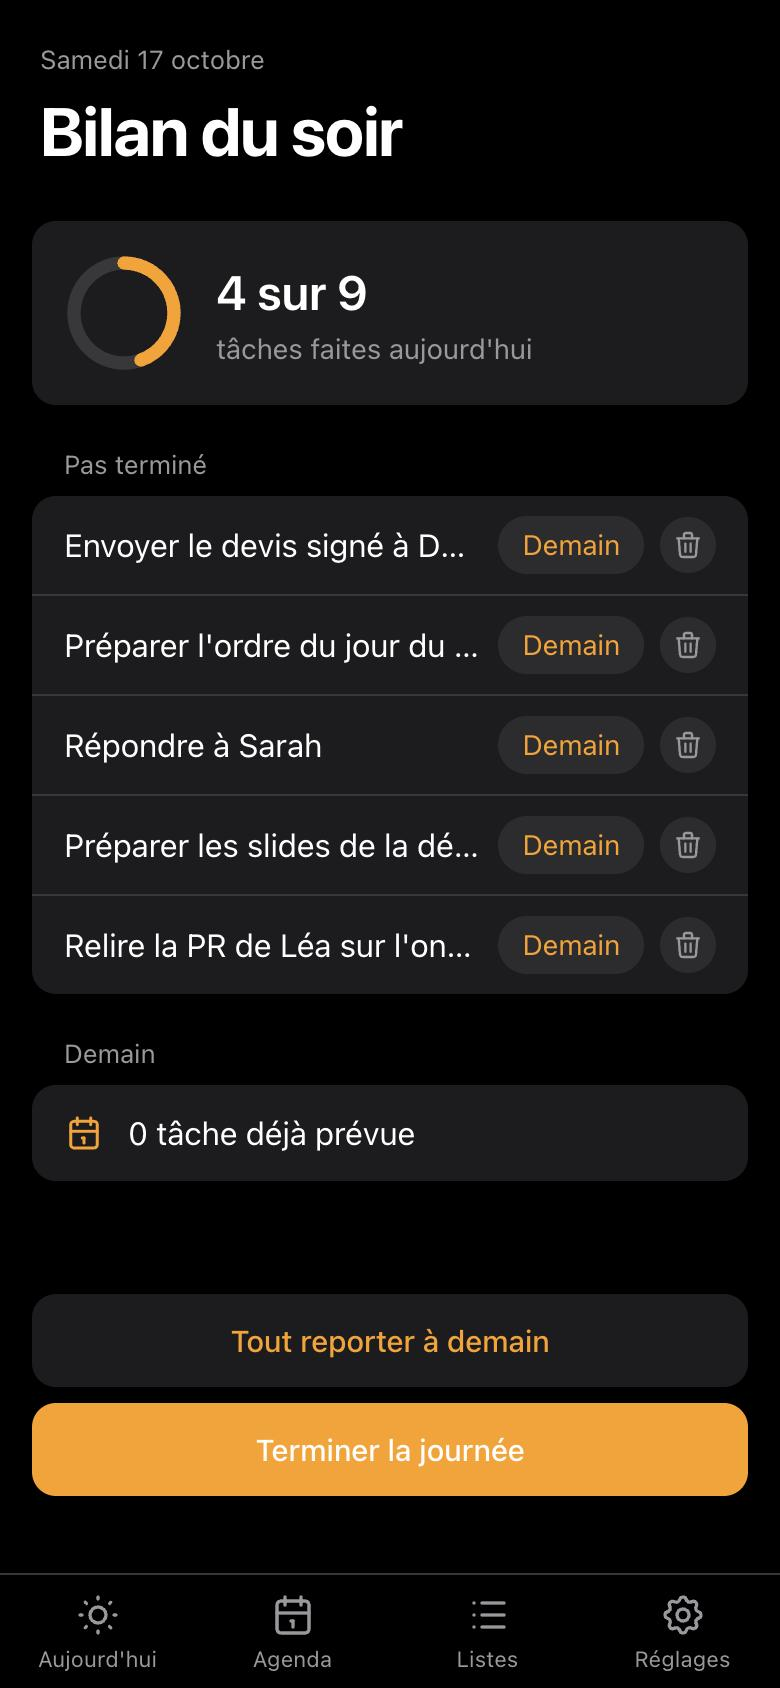
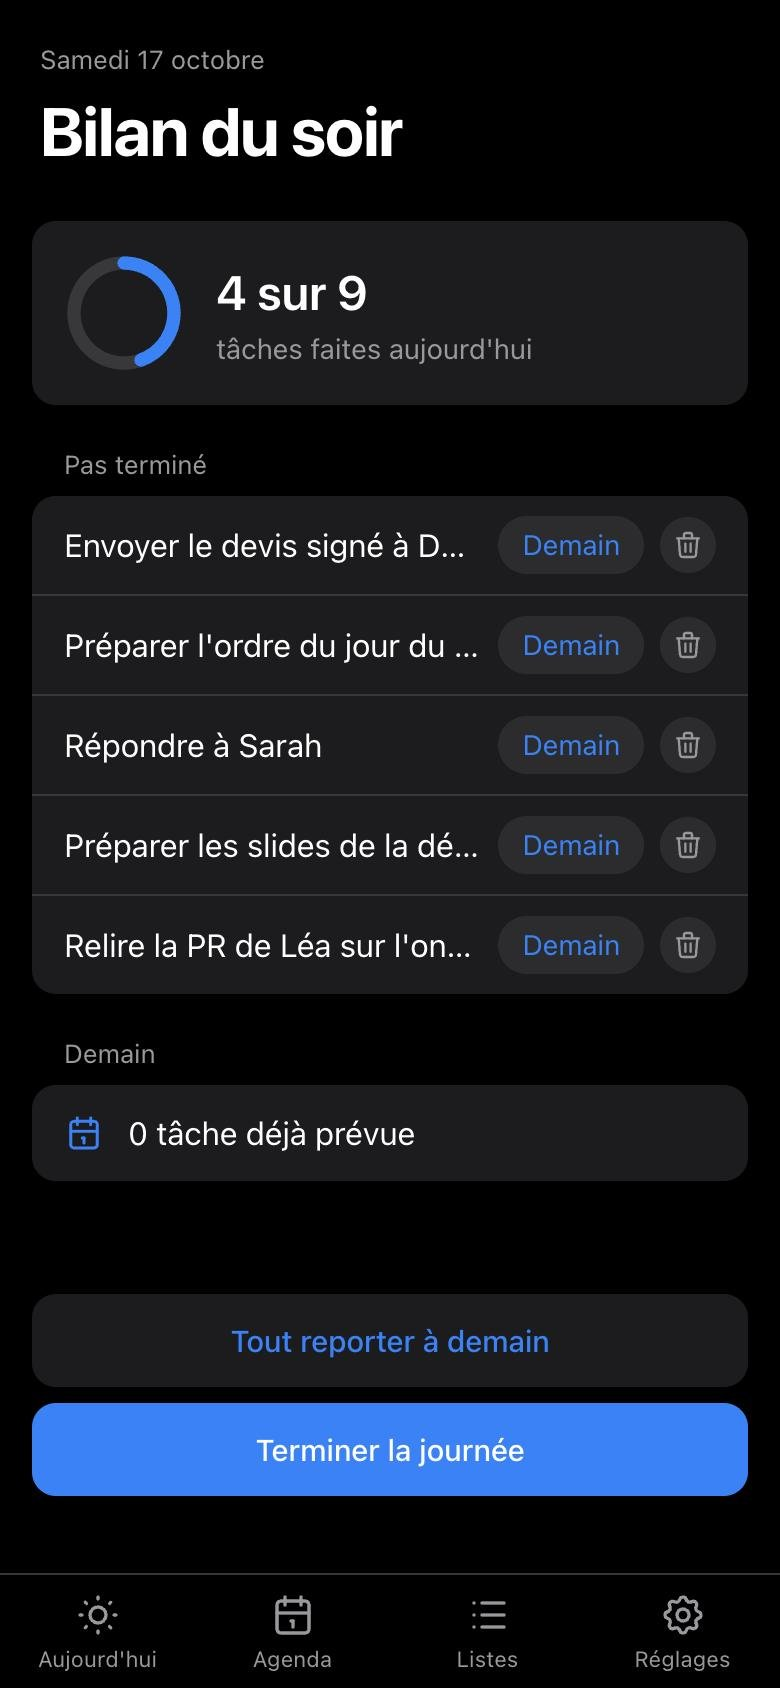
🎨 feat(landing): the app's colors, from the page to the screenshots (#42)
The landing page and README were orange; the app people install is iOS
blue on iOS grays. Visitors were sold a different-looking app.

- site/styles.css: the app's tokens (#f2f2f7 / white / black text in
  light, black / #1c1c1e / white in dark), system blue for accents and
  glows, #0071e3 for filled buttons (white labels at 4.7:1).
- New screenshots with the default blue accent, same demo content and
  framing as before (today, agenda, review, stats, rhythm, color step).
- README banners rebuilt with a blue glow; version badge in blue.
- theme-color metas follow the new backgrounds.
- D-013 records the decision.

diff --git a/site/styles.css b/site/styles.css
@@ -1,21 +1,23 @@
 /*
  * Taskly landing page. Plain CSS, no build step.
  * Shapes: interactive elements are pills, surfaces use --radius (24px).
- * One accent (the brand orange), light and dark from prefers-color-scheme.
+ * The app's own colors: iOS grays, and its default accent, system blue.
+ * Filled buttons use a deeper blue (#0071e3) so white labels stay above 4.5:1.
+ * Light and dark from prefers-color-scheme, like the app on "Auto".
  */
 
 :root {
-  --bg: #f5f3ed;
-  --surface: #fffdf8;
-  --surface-2: #ebe8e0;
-  --line: rgb(23 23 23 / 0.09);
-  --text: #171717;
-  --muted: #5e5c57;
-  --accent: #f5a623;
-  --accent-text: #8f5400;
-  --on-accent: #171717;
-  --glow: rgb(245 166 35 / 0.22);
-  --shadow: 0 24px 60px rgb(60 44 10 / 0.12);
+  --bg: #f2f2f7;
+  --surface: #ffffff;
+  --surface-2: #e5e5ea;
+  --line: rgb(60 60 67 / 0.12);
+  --text: #000000;
+  --muted: #6e6e73;
+  --accent: #0071e3;
+  --accent-text: #0066cc;
+  --on-accent: #ffffff;
+  --glow: rgb(0 122 255 / 0.2);
+  --shadow: 0 24px 60px rgb(0 30 80 / 0.12);
   --radius: 24px;
   --wrap: 1160px;
   --gutter: clamp(20px, 5vw, 40px);
@@ -28,15 +30,15 @@
 
 @media (prefers-color-scheme: dark) {
   :root {
-    --bg: #121212;
+    --bg: #000000;
     --surface: #1c1c1e;
-    --surface-2: #242426;
-    --line: rgb(245 243 237 / 0.08);
-    --text: #f5f3ed;
-    --muted: #a1a1a6;
-    --accent-text: #f5a623;
-    --glow: rgb(245 166 35 / 0.16);
-    --shadow: 0 24px 60px rgb(0 0 0 / 0.45);
+    --surface-2: #2c2c2e;
+    --line: rgb(255 255 255 / 0.1);
+    --text: #ffffff;
+    --muted: #98989d;
+    --accent-text: #2997ff;
+    --glow: rgb(10 132 255 / 0.22);
+    --shadow: 0 24px 60px rgb(0 0 0 / 0.6);
   }
 }
 

diff --git a/site/fr/index.html b/site/fr/index.html
@@ -6,8 +6,8 @@
     <title>Taskly · Ta journée, triée par Claude</title>
     <meta name="description" content="Une todo list du jour open source, à installer sur ton téléphone. Claude transforme tes mails, ton agenda et tes messages en checklist, avec des rappels qui sonnent vraiment.">
     <meta name="color-scheme" content="light dark">
-    <meta name="theme-color" content="#f5f3ed" media="(prefers-color-scheme: light)">
-    <meta name="theme-color" content="#121212" media="(prefers-color-scheme: dark)">
+    <meta name="theme-color" content="#f2f2f7" media="(prefers-color-scheme: light)">
+    <meta name="theme-color" content="#000000" media="(prefers-color-scheme: dark)">
     <meta property="og:type" content="website">
     <meta property="og:site_name" content="Taskly">
     <meta property="og:title" content="Taskly · Ta journée, triée par Claude">

diff --git a/site/index.html b/site/index.html
@@ -6,8 +6,8 @@
     <title>Taskly · Your day, sorted by Claude</title>
     <meta name="description" content="An open-source daily to-do app you install on your phone. Claude turns your mail, calendar and messages into one checklist, with reminders that actually ring.">
     <meta name="color-scheme" content="light dark">
-    <meta name="theme-color" content="#f5f3ed" media="(prefers-color-scheme: light)">
-    <meta name="theme-color" content="#121212" media="(prefers-color-scheme: dark)">
+    <meta name="theme-color" content="#f2f2f7" media="(prefers-color-scheme: light)">
+    <meta name="theme-color" content="#000000" media="(prefers-color-scheme: dark)">
     <meta property="og:type" content="website">
     <meta property="og:site_name" content="Taskly">
     <meta property="og:title" content="Taskly · Your day, sorted by Claude">

diff --git a/scripts/build-readme-art.py b/scripts/build-readme-art.py
@@ -15,7 +15,8 @@ os.makedirs(OUT, exist_ok=True)
 GRAPHITE = (23, 23, 23)
 IVORY = (245, 243, 237)
 GRAY = (161, 161, 166)
-ACCENT = (245, 166, 35)
+# The app's default accent (iOS blue, dark appearance), so the visuals look like what people install.
+ACCENT = (10, 132, 255)
 SS = 4  # supersampling for smooth curves
 
 
@@ -89,7 +90,7 @@ def pill(draw, x, y, text, f):
 def hero(lang, headline, sub, chips):
     W, H = 1760, 880
     base = Image.new("RGBA", (W, H), GRAPHITE + (255,))
-    # Warm glow behind the phones.
+    # Accent glow behind the phones.
     glow = Image.new("RGBA", (W, H), (0, 0, 0, 0))
     ImageDraw.Draw(glow).ellipse((880, 180, 1640, 940), fill=ACCENT + (70,))
     base = Image.alpha_composite(base, glow.filter(ImageFilter.GaussianBlur(140)))

diff --git a/scripts/build-site.py b/scripts/build-site.py
@@ -217,8 +217,8 @@ def page(t: dict) -> str:
     <title>{e(t["title"])}</title>
     <meta name="description" content="{e(t["description"])}">
     <meta name="color-scheme" content="light dark">
-    <meta name="theme-color" content="#f5f3ed" media="(prefers-color-scheme: light)">
-    <meta name="theme-color" content="#121212" media="(prefers-color-scheme: dark)">
+    <meta name="theme-color" content="#f2f2f7" media="(prefers-color-scheme: light)">
+    <meta name="theme-color" content="#000000" media="(prefers-color-scheme: dark)">
     <meta property="og:type" content="website">
     <meta property="og:site_name" content="Taskly">
     <meta property="og:title" content="{e(t["title"])}">

diff --git a/docs/design/DECISIONS.md b/docs/design/DECISIONS.md
@@ -115,3 +115,9 @@ Every failing item says how to fix it, for example "Slack connector missing in C
 - Graphite and ivory read well on both light and dark home screens.
 
 See [docs/brand](../brand/README.md) for the files and usage rules.
+
+## D-013 · The showcase wears the app's default colors
+
+**Context.** The landing page, the README banners and their screenshots used an orange accent (`#F5A623`). The app's default accent is iOS blue (D-002), so a visitor who installed Taskly got a blue app that looked nothing like the page that sold it.
+
+**Decision.** The landing page and the README visuals use the app's own tokens: iOS grays, black in dark mode, and system blue. Screenshots are taken with the default accent. Filled buttons on the landing page use `#0071e3`, a deeper blue, so white labels keep a 4.5:1 contrast. The logo stays graphite and ivory (D-012).

diff --git a/README.fr.md b/README.fr.md
@@ -3,7 +3,7 @@
 </p>
 
 <p align="center">
-  <a href="https://github.com/ethanfrq/Taskly/releases"><img src="https://img.shields.io/badge/version-0.5.0%20b%C3%AAta-F5A623" alt="Version 0.5.0 bêta"></a>
+  <a href="https://github.com/ethanfrq/Taskly/releases"><img src="https://img.shields.io/badge/version-0.5.0%20b%C3%AAta-0A84FF" alt="Version 0.5.0 bêta"></a>
   <a href="LICENSE"><img src="https://img.shields.io/badge/licence-MIT-blue" alt="Licence MIT"></a>
   <img src="https://img.shields.io/badge/PWA-iPhone%20%C2%B7%20Android%20%C2%B7%20Ordinateur-171717" alt="PWA pour iPhone, Android et ordinateur">
   <img src="https://img.shields.io/badge/Claude-connecteur%20MCP-D97757" alt="Connecteur MCP pour Claude">

diff --git a/README.md b/README.md
@@ -3,7 +3,7 @@
 </p>
 
 <p align="center">
-  <a href="https://github.com/ethanfrq/Taskly/releases"><img src="https://img.shields.io/badge/version-0.5.0%20beta-F5A623" alt="Version 0.5.0 beta"></a>
+  <a href="https://github.com/ethanfrq/Taskly/releases"><img src="https://img.shields.io/badge/version-0.5.0%20beta-0A84FF" alt="Version 0.5.0 beta"></a>
   <a href="LICENSE"><img src="https://img.shields.io/badge/license-MIT-blue" alt="MIT license"></a>
   <img src="https://img.shields.io/badge/PWA-iPhone%20%C2%B7%20Android%20%C2%B7%20Desktop-171717" alt="PWA for iPhone, Android and desktop">
   <img src="https://img.shields.io/badge/Claude-MCP%20connector-D97757" alt="Claude MCP connector">
